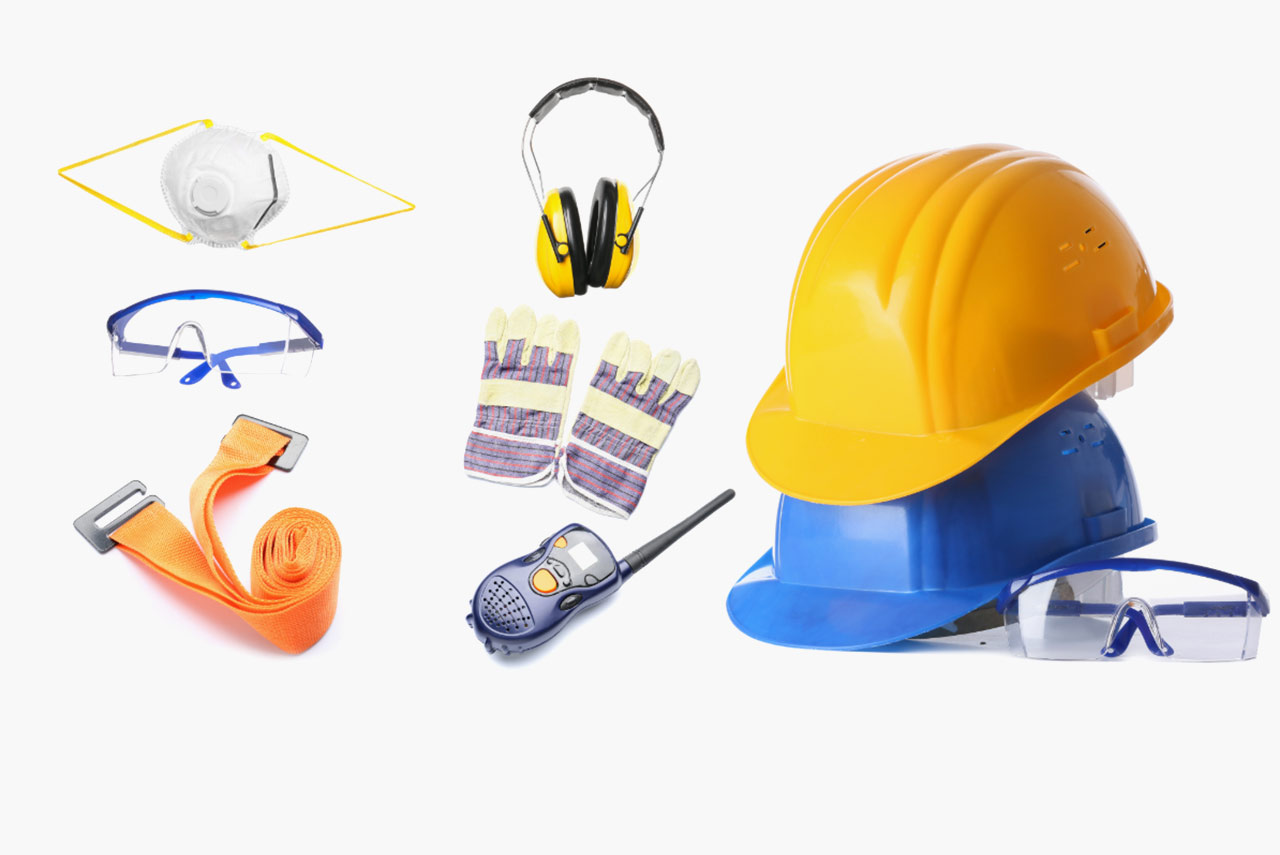
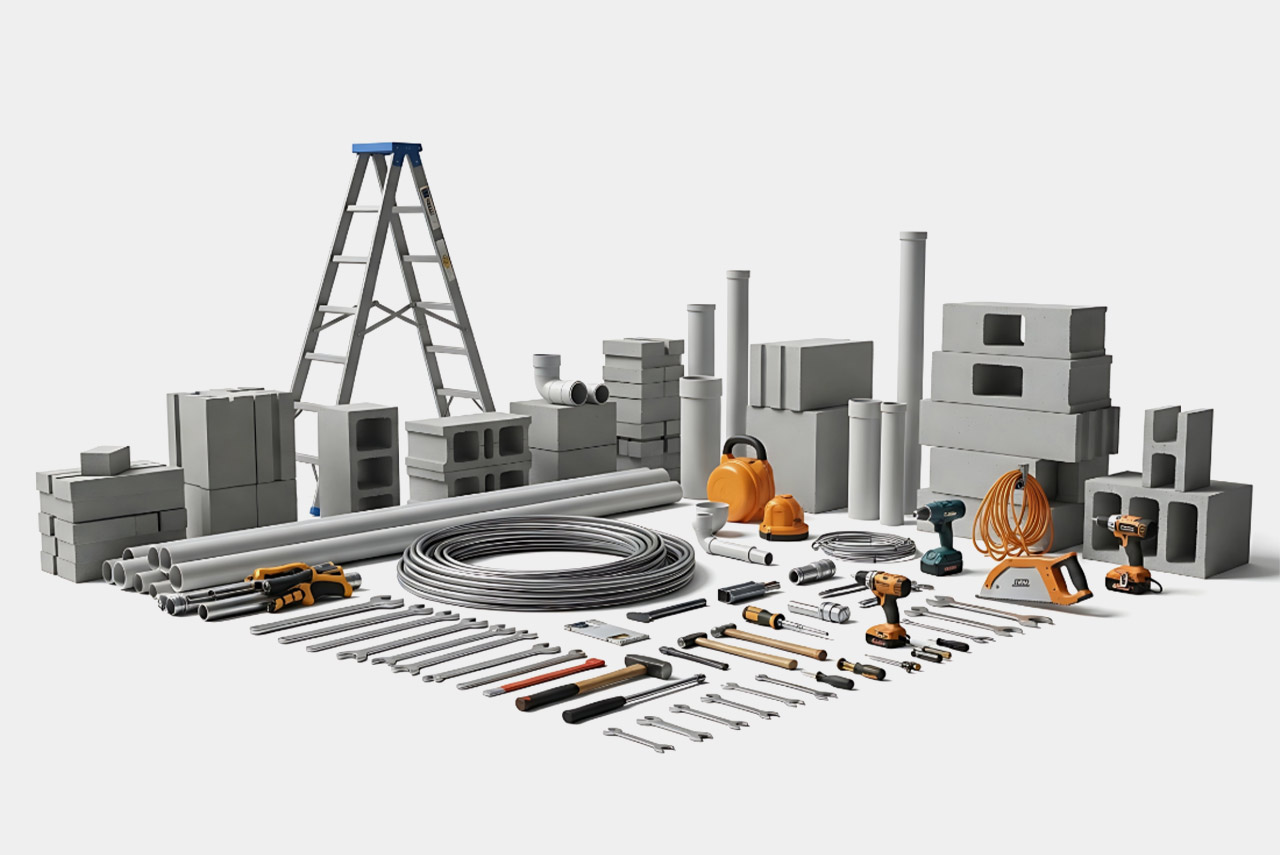
Use new building-materials photo; real images for airport & hotel projects
- Building Materials division now uses the uploaded building-materials-products
  photo (copied to building-materials.jpg, the referenced filename)
- Projects: replace the airport-facility and hotel-kitchen SVG placeholders
  with real photos from the folder (aviation -> airport, hospitality -> hotel)

Claude-Session: https://claude.ai/code/session_01AWMFs55nS6qWVgvNrkiaZS

diff --git a/projects.html b/projects.html
@@ -210,7 +210,7 @@
         <div class="supplied"><p class="k">Products Supplied</p><p class="v">Safety helmets, hi-vis vests, fall protection, goggles</p></div>
       </div>
     </div><div class="card proj-card reveal">
-      <div class="media"><img src="images/airport-facility.svg" alt="Airport Facility Supplies Contract" loading="lazy"><div class="shade"></div></div>
+      <div class="media"><img src="images/airport-facility.jpg" alt="Airport Facility Supplies Contract" loading="lazy"><div class="shade"></div></div>
       <div class="body">
         <div class="meta">
           <span><svg class="icon-xs"><use href="#i-building"/></svg> Aviation</span>
@@ -222,7 +222,7 @@
         <div class="supplied"><p class="k">Products Supplied</p><p class="v">Cleaning systems, hygiene consumables, safety signage</p></div>
       </div>
     </div><div class="card proj-card reveal">
-      <div class="media"><img src="images/hotel-kitchen.svg" alt="Hotel Group Kitchen & Cleaning Fit-Out" loading="lazy"><div class="shade"></div></div>
+      <div class="media"><img src="images/hotel-kitchen.jpg" alt="Hotel Group Kitchen & Cleaning Fit-Out" loading="lazy"><div class="shade"></div></div>
       <div class="body">
         <div class="meta">
           <span><svg class="icon-xs"><use href="#i-building"/></svg> Hospitality</span>
